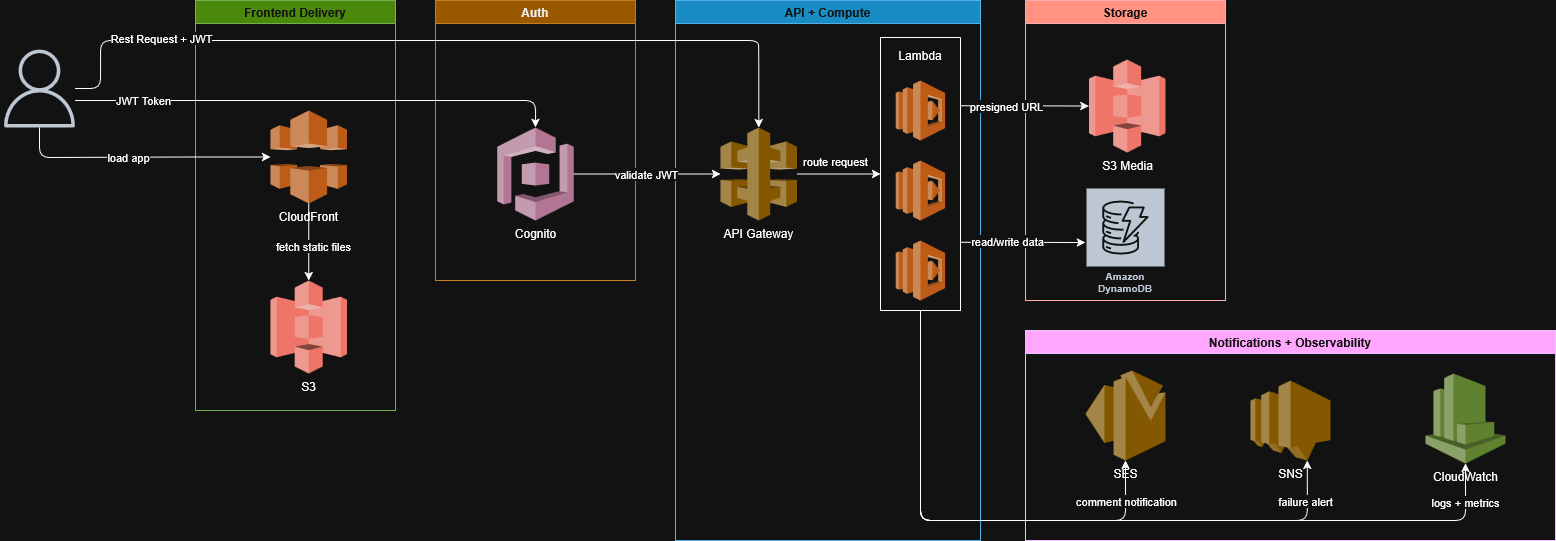
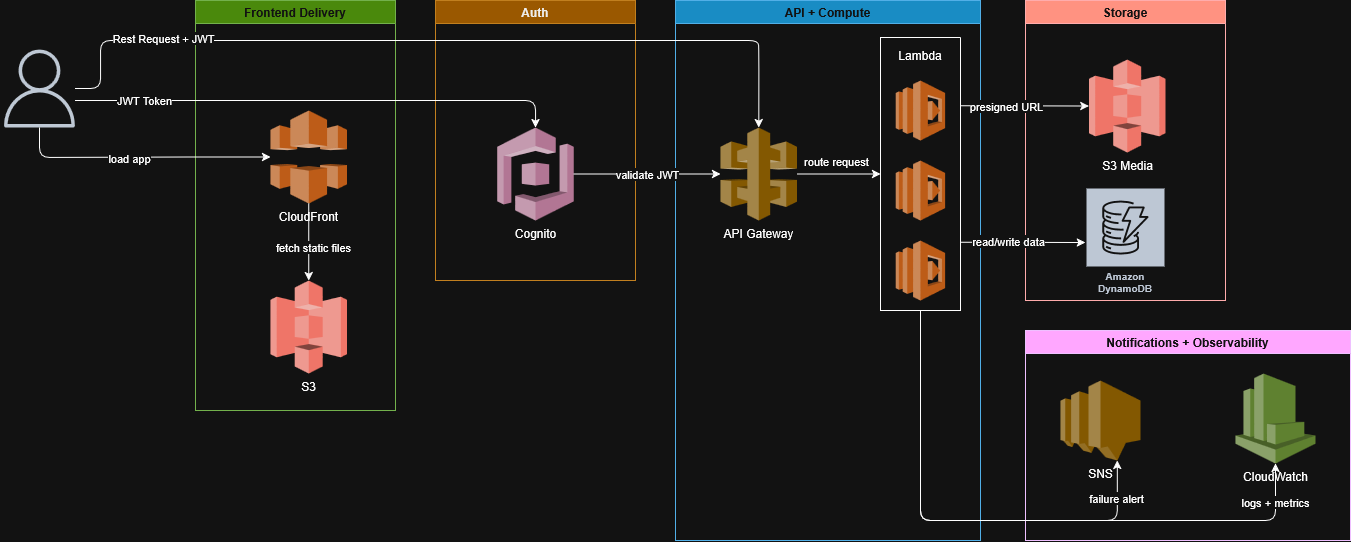
refresh readme, update diagram

diff --git a/README.md b/README.md
@@ -1,37 +1,62 @@
 # Overcast
 
-A cloud-native blogging platform built on AWS. Users can create accounts, write and publish posts, upload images, and receive notifications when others engage with their content.
+A serverless blogging platform built on AWS. Users can sign up, write posts, upload images, and read content from others.
 
-## Architecture Overview
+**Live:** [overcast.jackdrab.dev](https://overcast.jackdrab.dev)
 
-Overcast is a fully serverless application. The frontend is a React SPA hosted on S3 and served globally via CloudFront. All user interactions hit API Gateway, which routes requests to Lambda functions that handle business logic. User data, posts, and comments are persisted in DynamoDB. Images are stored directly in S3. Cognito handles all authentication and session management. SES delivers email notifications when users receive comments. SNS is used for internal alerting on Lambda failures. CloudWatch collects logs and metrics across all services.
+---
+
+## Architecture
+
+![Architecture Diagram](architecture.png)
+
+Overcast is fully serverless and doesn't use EC2 instances or persistent servers anywhere in the stack. Every component is managed by AWS and scales automatically with traffic.
+
+The frontend is a React single-page application compiled to static files, uploaded to S3, and served globally through CloudFront. CloudFront handles HTTPS termination and caches assets at edge locations, so users get fast load times regardless of location. All API traffic flows through API Gateway, which acts as the single entry point for the backend. API Gateway is configured with a Cognito authorizer, meaning every request is authenticated before it ever reaches a Lambda function (with the exception of a GET request for post info).
+
+Authentication is handled entirely by Cognito. When a user signs up, Cognito sends a verification email and requires confirmation before the account is active. On login, Cognito issues a JWT which the frontend stores in memory and attaches to every subsequent API request as an Authorization header. API Gateway validates this token on every request and unauthenticated requests are rejected at the gateway layer and never reach Lambda.
+
+Lambda functions handle all business logic. There are separate functions for fetching posts, creating posts, and generating presigned S3 upload URLs. Each function has an IAM policy scoped to exactly what it needs. For example, the read function only has DynamoDB read access, the write function only has DynamoDB write access, and the upload URL function only has S3 write access on the media bucket. This follows the principle of least privilege so a compromised function can't access resources it doesn't need.
+
+Post data and user profiles are stored in DynamoDB. DynamoDB was chosen over RDS because the posts are self-contained JSON objects that don't require relational joins. Each post has a UUID primary key generated at write time.
+
+Image uploads use a presigned URL flow. When a user selects an image, the frontend requests a presigned URL from Lambda. Lambda generates a time-limited URL that grants the browser direct write access to a specific S3 key, and returns it along with the final public URL of the image. The browser then uploads the file directly to S3 using that URL, meaning large files never pass through Lambda or API Gateway. The resulting S3 URL is stored as part of the post in DynamoDB.
+
+If a Lambda function fails, the invocation is forwarded to an SNS topic as an async destination. SNS fans the alert out to the developer via email. CloudWatch automatically collects logs and metrics from every Lambda invocation and API Gateway request.
+
+Deployments are fully automated via GitHub Actions. On every push to main, the workflow runs SAM build and deploy for the backend, then builds the React app and syncs it to S3, and finally invalidates the CloudFront cache so users immediately see the new version.
+
+---
 
 ## AWS Services
 
-| Service           | Role                                                          | Why this over alternatives?                                                                                                                                                           |
-| ----------------- | ------------------------------------------------------------- | ------------------------------------------------------------------------------------------------------------------------------------------------------------------------------------- |
-| Amazon Cognito    | User authentication — registration, login, session management | Managed auth with built-in JWT and persistent user pools. Saves building auth from scratch and integrates natively with API Gateway.                                                  |
-| API Gateway       | REST API entrypoint for all client-server communication       | Fully managed, scales automatically, and integrates directly with Lambda — no need to manage an EC2-based API server.                                                                 |
-| AWS Lambda        | Serverless backend logic for posts, comments, and user data   | Our workload is event-driven and infrequent, making serverless more cost-effective than running a persistent EC2 instance.                                                            |
-| Amazon DynamoDB   | Persistent storage for posts, comments, and user profiles     | Always-free tier, schema-less structure suits blog post documents, and scales seamlessly. Chosen over RDS to avoid managing a relational DB for a document-oriented workload.         |
-| Amazon S3         | Image/media uploads and static frontend hosting               | Industry-standard object storage. Hosting the static frontend on S3 eliminates the need for a dedicated web server.                                                                   |
-| Amazon CloudFront | CDN for frontend and media delivery                           | Reduces latency by caching S3 content at edge locations. Chosen over serving directly from S3 for performance and HTTPS support.                                                      |
-| Amazon SES        | Email notifications for comments and engagement               | Sends email directly to any address from Lambda without requiring subscription confirmation. Chosen over SNS for user-facing email delivery due to SES's simpler end-user experience. |
-| Amazon SNS        | Internal alerting on Lambda failures                          | Used as a dead letter queue target for failed Lambda invocations, alerting the developer when backend errors occur.                                                                   |
-| Amazon CloudWatch | Logging and monitoring                                        | Native AWS observability — collects Lambda logs and API Gateway metrics without additional configuration.                                                                             |
+| Service | Role | Why this over alternatives? |
+|---|---|---|
+| CloudFront | CDN - serves the frontend globally over HTTPS | S3 alone doesn't support HTTPS on custom domains, and CloudFront caches content at edge locations so load times are faster |
+| S3 | Frontend hosting and image storage | No server needed for static files. For images, presigned URLs let the browser upload directly to S3 without going through Lambda |
+| Cognito | User signup, login, and session management | Handles password hashing, email verification, and JWT issuance without building any of it. Integrates directly with API Gateway |
+| API Gateway | REST API entry point | Validates JWTs automatically before requests reach Lambda. No server to manage compared to running an Express app on EC2 |
+| Lambda | Backend logic for posts and image uploads | Lambda was chosen over EC2 because traffic is unpredictable and infrequent - Lambda only runs when a request comes in so I'm not paying for idle time |
+| DynamoDB | Stores posts and user data | Blog posts are self-contained documents that don't need joins, so a NoSQL database fits better than RDS. Also has a generous free tier |
+| SNS | Alerts when a Lambda function fails | SNS was configured as a Lambda failure destination so failures trigger an email automatically when something crashes instead of having to check logs manually |
+| CloudWatch | Logs and metrics | Automatically collects logs from every Lambda invocation with no setup required |
+---
 
-## Service Interactions
+## Data Flow
 
-1. **User visits the app** → CloudFront serves the React frontend from S3
-2. **User registers or logs in** → Frontend communicates directly with Cognito, which returns a JWT
-3. **User makes any API request** → JWT is attached to the request, API Gateway validates it against Cognito before passing to Lambda
-4. **User creates a post or comment** → Lambda writes the data to DynamoDB and returns a response
-5. **User uploads an image** → Lambda generates a presigned S3 URL, frontend uploads directly to S3
-6. **User receives a comment** → Lambda sends an email notification via SES directly to the post author
-7. **A Lambda function fails** → The failed invocation is forwarded to an SNS topic, which alerts the developer
-8. **Any Lambda invocation** → Logs and metrics are automatically sent to CloudWatch
+1. **User loads the app** - browser hits CloudFront, which serves the React SPA from S3
+2. **User signs up** - frontend calls Cognito directly, Cognito sends a verification email, user confirms with the code
+3. **User logs in** - Cognito validates credentials and returns a JWT, frontend stores it in memory
+4. **User reads posts** - frontend fetches `GET /posts`, which is public and requires no token, Lambda scans DynamoDB and returns all posts
+5. **User creates a post** - frontend attaches JWT to `POST /posts`, API Gateway validates it against Cognito, Lambda writes the post to DynamoDB
+6. **User uploads an image** - frontend requests a presigned URL from `GET /upload-url`, Lambda generates it with a 5 minute expiry, frontend PUTs the file directly to S3, the resulting URL is stored with the post
+7. **Lambda fails** - failed invocation forwarded to SNS topic, SNS emails the developer
+8. **Any Lambda invocation** - logs and metrics automatically streamed to CloudWatch
+9. **Code pushed to main** - GitHub Actions deploys backend via SAM, builds and syncs frontend to S3, invalidates CloudFront cache
 
+---
 
-UserPoolId: us-east-1_U0jZAbaIu
-UserPoolClientId: 34pmvvbfne5t17n6k5e57b9ffa
-ApiUrl: https://jvjkzd3e00.execute-api.us-east-1.amazonaws.com/Prod/
+## Deployment
+
+Pushes to `main` automatically deploy the full stack via GitHub Actions with no manual intervention required.
+
